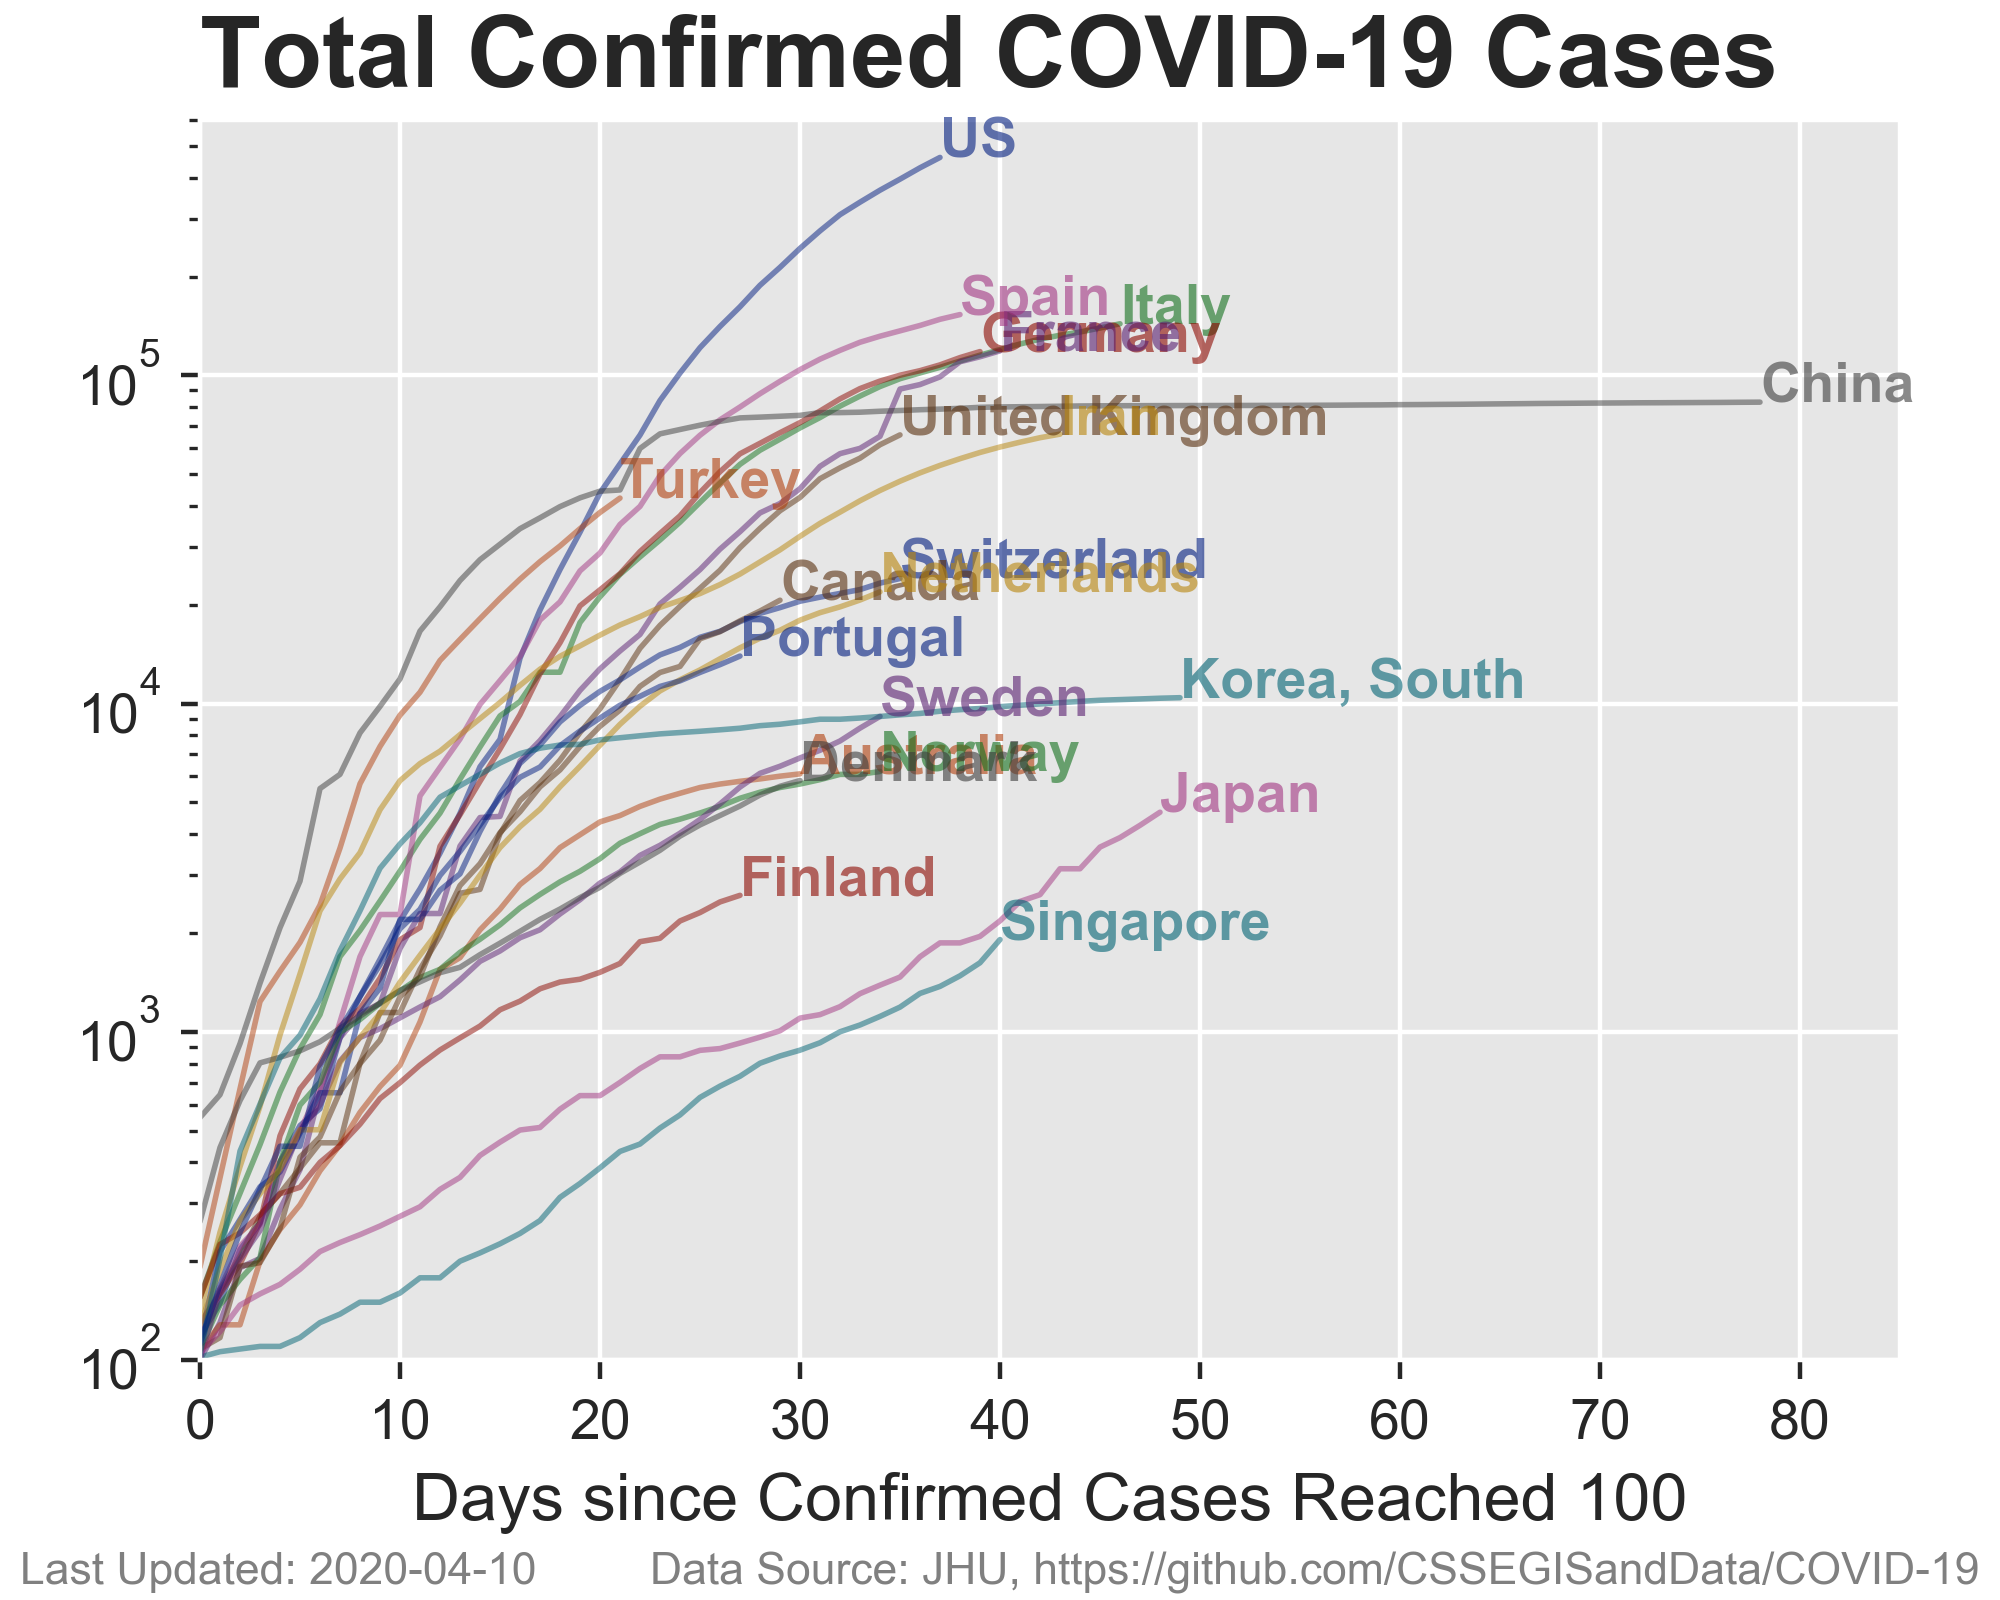
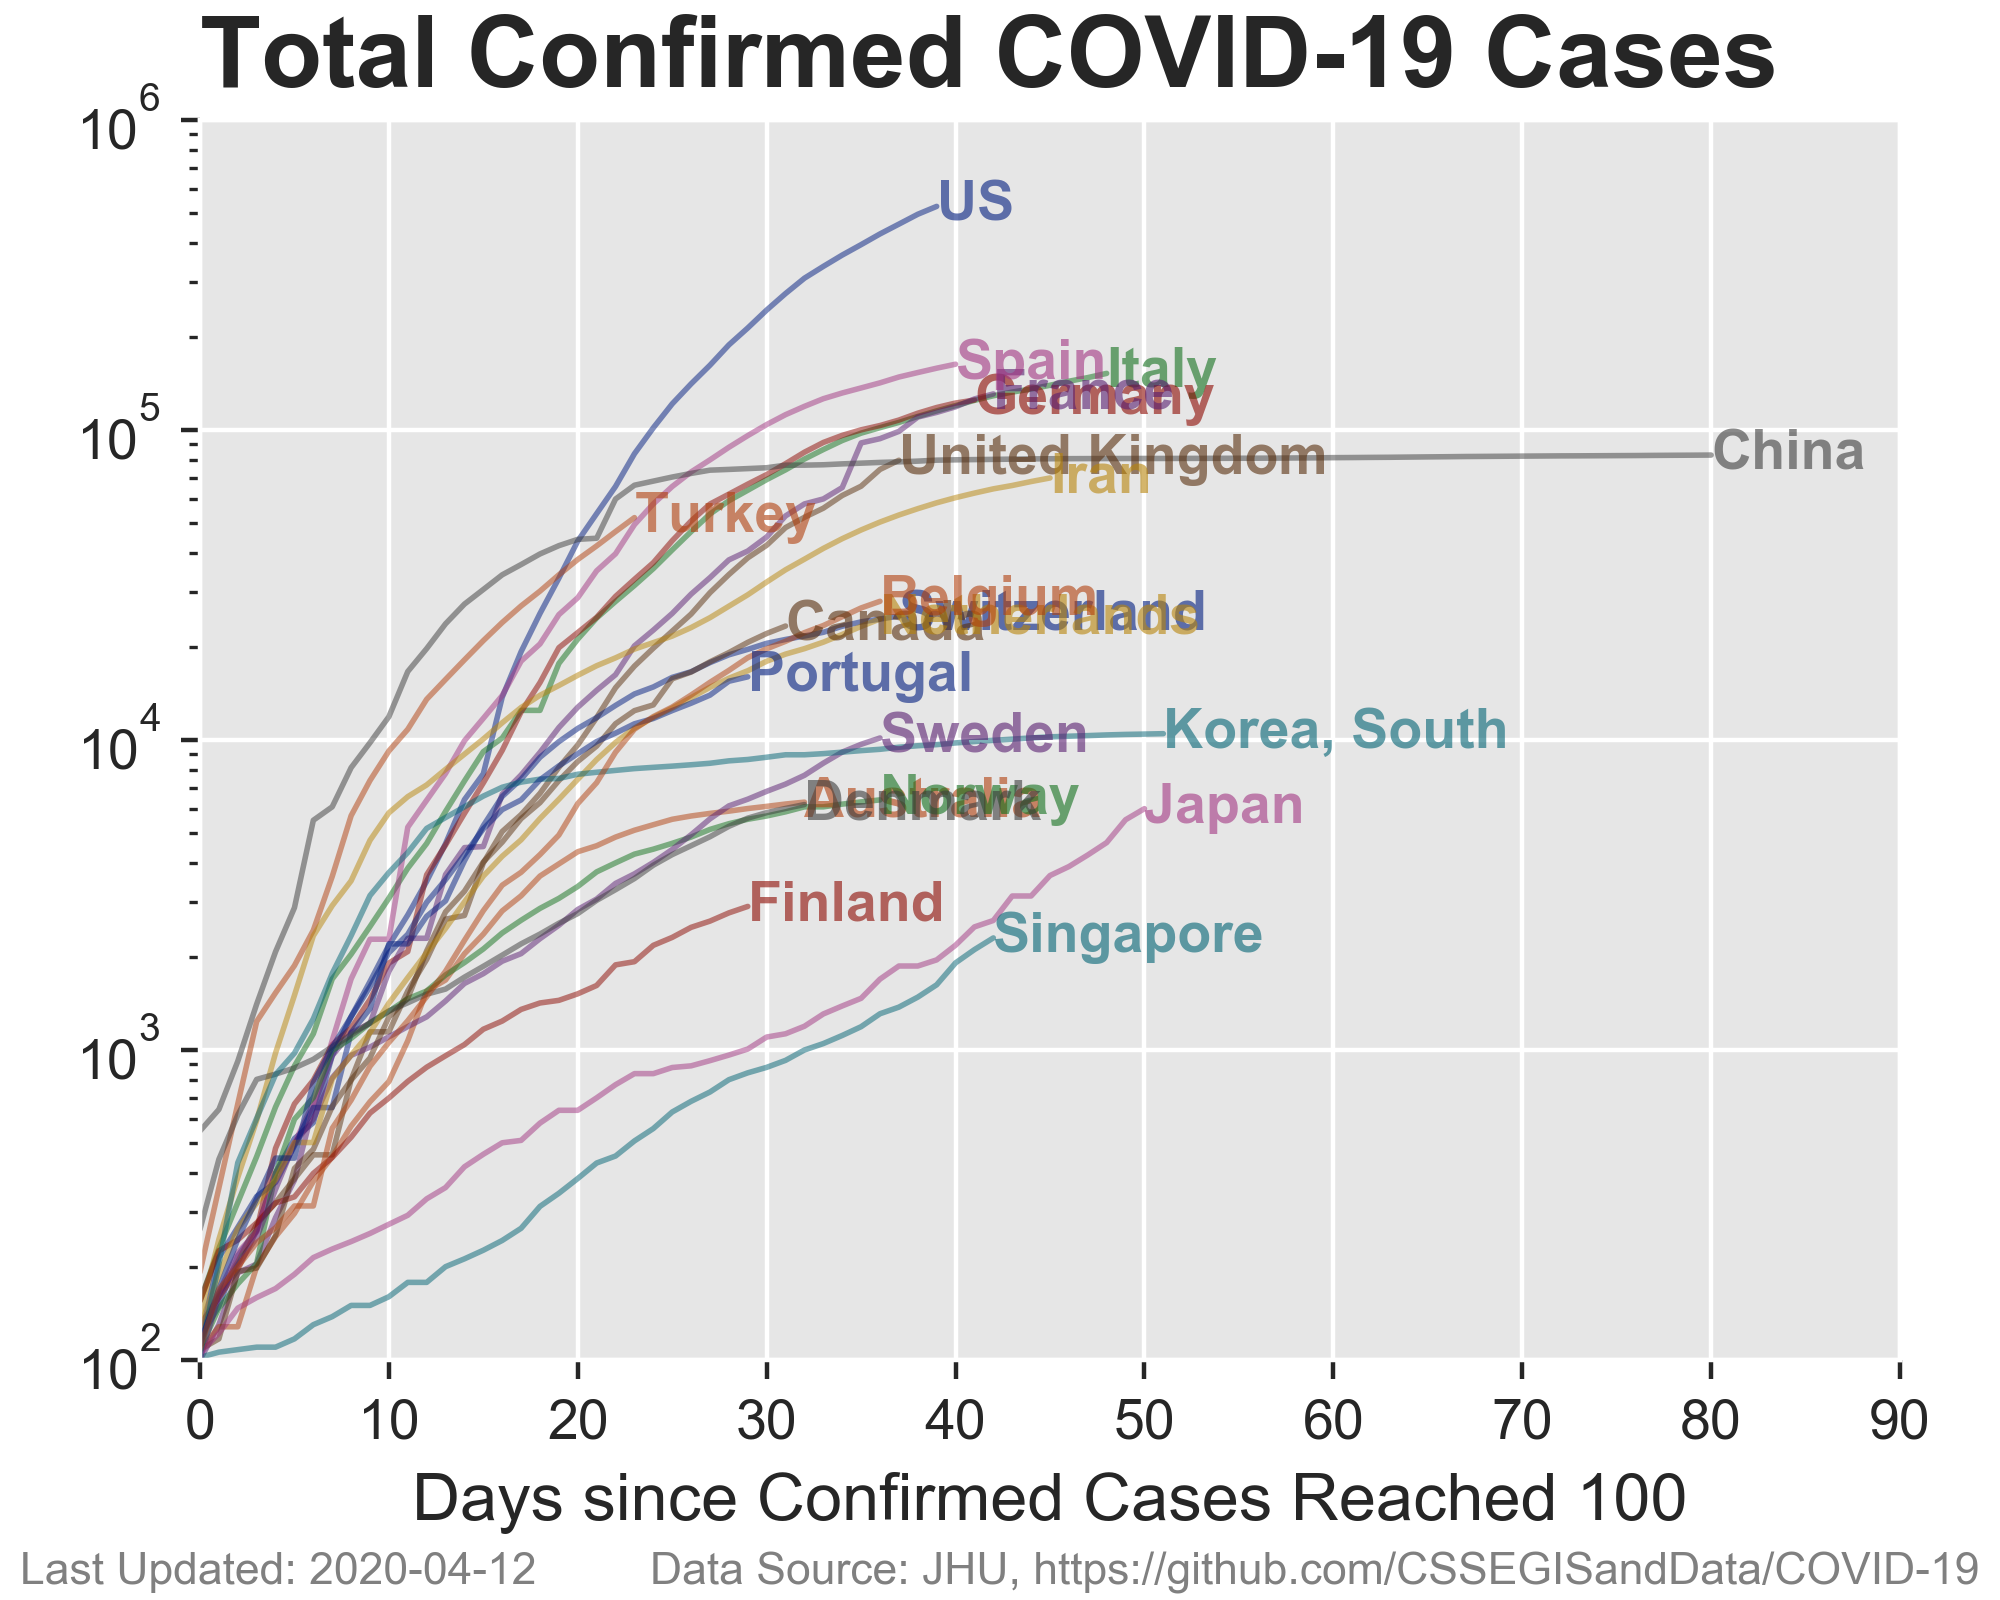
daily update

diff --git a/plotter_covid.py b/plotter_covid.py
@@ -32,6 +32,7 @@ countries = [
 				'Netherlands',
 				'Korea, South',
 				'Portugal',
+				'Belgium',
 				]
 
 # confirmed cases
@@ -82,14 +83,14 @@ fig = plt.figure(figsize=(5,4)); ax = plt.gca()
 for k,item in enumerate(confirmed_df.keys()):
 	df_plot = confirmed_df[confirmed_df[item] >= 100]
 	plt.plot(np.arange(0,len(df_plot[item])),df_plot[item],color=color[k],alpha=0.5,linewidth=1,label=item)
-	plt.text(len(df_plot[item])-1,df_plot[item].iloc[-1],item,fontsize=10,color=color[k],alpha=0.6,fontweight='bold')
+	plt.text(len(df_plot[item])-1,df_plot[item].iloc[-1],item,fontsize=10,color=color[k],alpha=0.6,fontweight='bold',verticalalignment='center')
 ax.set_yscale('log')
 plt.title('Total Confirmed COVID-19 Cases', loc='left', fontweight='bold',fontsize=18)
 ax.get_xaxis().tick_bottom()
 ax.get_yaxis().tick_left()
 plt.xlabel('Days since Confirmed Cases Reached 100',fontsize=12)
-plt.ylim([100,600000])
-plt.xlim([0,85])
+plt.ylim([10**2,10**6])
+plt.xlim([0,90])
 plt.gcf().text(0.01, 0.01, 'Last Updated: '+str(datetime.date.today()),fontsize=8,color='grey')
 plt.gcf().text(0.325, 0.01, 'Data Source: JHU, '+source,fontsize=8,color='grey')
 plt.subplots_adjust(left=0.1, bottom=0.15, right=0.95, top=0.925)
@@ -108,13 +109,13 @@ def animate(i):
 	plt.fill_between(np.arange(0,len(df_plot_italy['Italy'])),df_plot_italy['Italy'],color='blue',alpha=0.2,linewidth=2,label='Italy')
 	df_plot = confirmed_df[confirmed_df[item] >= 100]
 	plt.fill_between(np.arange(0,len(df_plot[item])),df_plot[item],color=color[i],alpha=0.4,linewidth=2,label=item)
-	plt.text(len(df_plot[item])-1,df_plot[item].iloc[-1],item,fontsize=10,color=color[i],alpha=0.9,fontweight='bold')
+	plt.text(len(df_plot[item])/2,300,item,fontsize=10,color=color[i],alpha=0.9,fontweight='bold')
 	ax.set_yscale('log')
 	plt.title('Total Confirmed COVID-19 Cases', loc='left', fontweight='bold',fontsize=18)
 	ax.get_xaxis().tick_bottom()
 	ax.get_yaxis().tick_left()
 	plt.xlabel('Days since Confirmed Cases Reached 100',fontsize=12)
-	plt.ylim([100,600000])
+	plt.ylim([10**2,10**6])
 	plt.legend(loc=2)
 	# plt.xlim([0,len(df_plot_italy['Italy'])])
 	plt.xlim([0,None])
@@ -132,63 +133,64 @@ plt.figure(figsize=(12, 8))
 ax1 = plt.subplot(231)
 confirmed_new_df.plot(
 	# logy=True,
-	ax=ax1,alpha=0.5,ylim=[1,35000],xlim=[confirmed_new_df.index[0],confirmed_new_df.index[-1]],color=color,legend=False,linewidth=1)
+	ax=ax1,alpha=0.5,ylim=[1,36000],xlim=[confirmed_new_df.index[0],confirmed_new_df.index[-1]],color=color,legend=False,linewidth=1)
 plt.title('Daily Confirmed Cases', loc='left', fontweight='bold',fontsize=11)
 ax1.get_xaxis().tick_bottom()
 ax1.get_yaxis().tick_left()
 for i,item in enumerate(confirmed_new_df.keys()):
-	plt.text(confirmed_new_df.index[-1],confirmed_new_df[item].iloc[-1],item,fontsize=8,color=color[i],alpha=0.9)
+	plt.text(confirmed_new_df.index[-1],confirmed_new_df[item].iloc[-1],item,fontsize=8,color=color[i],alpha=0.9,verticalalignment='center')
 
 ax2 = plt.subplot(232)
 confirmed_df.plot(
 	logy=True,
-	ax=ax2,alpha=0.5,ylim=[1,600000],xlim=[confirmed_df.index[0],confirmed_df.index[-1]],color=color,legend=False,linewidth=1)
+	ax=ax2,alpha=0.5,ylim=[1,10**6],xlim=[confirmed_df.index[0],confirmed_df.index[-1]],color=color,legend=False,linewidth=1)
 plt.title('Total Confirmed Cases', loc='left', fontweight='bold',fontsize=11)
 ax2.get_xaxis().tick_bottom()
 ax2.get_yaxis().tick_left()
 for i,item in enumerate(confirmed_df.keys()):
-	plt.text(confirmed_df.index[-1],confirmed_df[item].iloc[-1],item,fontsize=8,color=color[i],alpha=0.9)
+	plt.text(confirmed_df.index[-1],confirmed_df[item].iloc[-1],item,fontsize=8,color=color[i],alpha=0.9,verticalalignment='center')
 
 ax3 = plt.subplot(233)
 death_new_df.plot(
 	# logy=True,
-	ax=ax3,alpha=0.5,ylim=[1,2000],xlim=[death_new_df.index[0],death_new_df.index[-1]],color=color,legend=False,linewidth=1)
+	ax=ax3,alpha=0.5,ylim=[1,2250],xlim=[death_new_df.index[0],death_new_df.index[-1]],color=color,legend=False,linewidth=1)
 plt.title('Daily Fatalities', loc='left', fontweight='bold',fontsize=11)
 ax3.get_xaxis().tick_bottom()
 ax3.get_yaxis().tick_left()
 for i,item in enumerate(death_new_df.keys()):
-	plt.text(death_new_df.index[-1],death_new_df[item].iloc[-1],item,fontsize=8,color=color[i],alpha=0.9)
+	plt.text(death_new_df.index[-1],death_new_df[item].iloc[-1],item,fontsize=8,color=color[i],alpha=0.9,verticalalignment='center')
 
 ax4 = plt.subplot(234)
 plt.barh(barPos_p, data[sorted_idx_p],alpha=0.9)
-plt.yticks(barPos_p, sc[sorted_idx_p])
+plt.yticks(barPos_p, sc[sorted_idx_p],fontsize=8)
 plt.title('Mortality Rate (%)', loc='left', fontweight='bold',fontsize=11)
 ax4.get_xaxis().tick_bottom()
 ax4.get_yaxis().tick_left()
 plt.xlim([0,15])
+plt.ylim([-1,len(barPos_p)])
 plt.xlabel('(# of Deaths / Confirmed Cases) * 100')
 for i,item in enumerate(data[sorted_idx_p]):
-	plt.text(item,i,str(round(item,1)),verticalalignment='center',fontsize=8,color='gray')
+	plt.text(item,i,str(round(item,1)),verticalalignment='center',fontsize=7,color='gray')
 
 ax5 = plt.subplot(235)
 death_df.plot(
 	logy=True,
-	ax=ax5,alpha=0.5,ylim=[1,20000],xlim=[death_df.index[0],death_df.index[-1]],color=color,legend=False,linewidth=1)
+	ax=ax5,alpha=0.5,ylim=[1,10**5],xlim=[death_df.index[0],death_df.index[-1]],color=color,legend=False,linewidth=1)
 plt.title('Total Number of Deaths', loc='left', fontweight='bold',fontsize=11)
 ax5.get_xaxis().tick_bottom()
 ax5.get_yaxis().tick_left()
 for i,item in enumerate(death_df.keys()):
-	plt.text(death_df.index[-1],death_df[item].iloc[-1],item,fontsize=8,color=color[i],alpha=0.9)
+	plt.text(death_df.index[-1],death_df[item].iloc[-1],item,fontsize=8,color=color[i],alpha=0.9,verticalalignment='center')
 
 ax6 = plt.subplot(236)
 recovered_df.plot(
 	logy=True,
-	ax=ax6,alpha=0.5,ylim=[1,100000],xlim=[recovered_df.index[0],confirmed_df.index[-1]],color=color,legend=False,linewidth=1)
+	ax=ax6,alpha=0.5,ylim=[1,10**5],xlim=[recovered_df.index[0],confirmed_df.index[-1]],color=color,legend=False,linewidth=1)
 plt.title('Total Recovered Patients', loc='left', fontweight='bold',fontsize=11)
 ax6.get_xaxis().tick_bottom()
 ax6.get_yaxis().tick_left()
 for i,item in enumerate(recovered_df.keys()):
-	plt.text(recovered_df.index[-1],recovered_df[item].iloc[-1],item,fontsize=8,color=color[i],alpha=0.9)
+	plt.text(recovered_df.index[-1],recovered_df[item].iloc[-1],item,fontsize=8,color=color[i],alpha=0.9,verticalalignment='center')
 
 plt.legend(bbox_to_anchor=(1.2, 1.2, 1., .12), loc='center right', ncol=1)
 plt.subplots_adjust(left=0.1, bottom=0.15, right=0.8, top=0.925, wspace=0.6, hspace=0.4)
